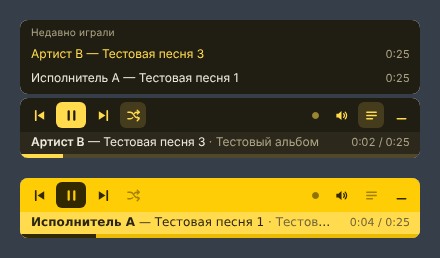
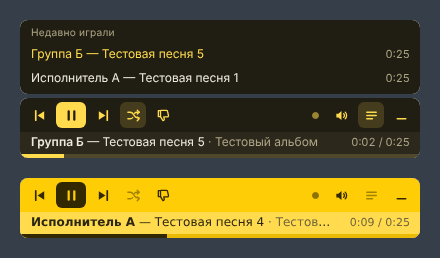
Кнопка «Не нравится» с отменой в течение 5 секунд
Дизлайк пропускает трек, отправляет «Не нравится» в Яндекс, снимает лайк
и удаляет файл. Без сети отправка повторяется при синхронизации.

Claude-Session: https://claude.ai/code/session_01W9G55fLMy6YKxRHAMPyXrY

diff --git a/src/renderer/bar.js b/src/renderer/bar.js
@@ -16,6 +16,8 @@ let status = {};
 let wantPlay = false;       // при старте: играть ли, когда появится первый трек
 let flash = null;           // временная надпись (громкость)
 let flashTimer = null;
+let flashAction = null;     // { label, run } — ссылка в надписи (например «Отменить»)
+let pendingDislike = null;  // { id, timer } — 5 секунд на отмену
 let lastSavedTime = 0;
 
 // ---------- Цвета из одного hex (как в Sticker) ----------
@@ -86,9 +88,12 @@ function shuffled(ids) {
   return a;
 }
 
+// Треки для очереди: всё скачанное, кроме ждущего отправки дизлайка.
+const queueIds = () => tracks.map(t => t.id).filter(id => !pendingDislike || id !== pendingDislike.id);
+
 // Перестроить очередь, сохранив текущий трек на своём месте.
 function rebuildOrder() {
-  const ids = tracks.map(t => t.id);
+  const ids = queueIds();
   if (shuffle) {
     order = shuffled(ids.filter(id => id !== current));
     if (current && byId.has(current)) order.unshift(current);
@@ -106,7 +111,7 @@ function mergeTracks(list) {
   if (!shuffle || order.length === 0) { rebuildOrder(); return; }
   order = order.filter(id => byId.has(id));
   for (const t of list) {
-    if (old.has(t.id)) continue;
+    if (old.has(t.id) || (pendingDislike && pendingDislike.id === t.id)) continue;
     const from = Math.max(pos + 1, 0);
     const at = from + Math.floor(Math.random() * (order.length - from + 1));
     order.splice(at, 0, t.id);
@@ -157,7 +162,7 @@ function step(dir) {
   if (i >= order.length) {
     // Круг пройден: в режиме shuffle перемешиваем заново (без повтора только что сыгранного).
     if (shuffle) {
-      order = shuffled(tracks.map(t => t.id));
+      order = shuffled(queueIds());
       if (order[0] === current && order.length > 1) order.push(order.shift());
     }
     i = 0;
@@ -187,6 +192,13 @@ function renderInfo() {
   const t = current && byId.get(current);
   if (flash) {
     titleEl.textContent = flash;
+    if (flashAction) {
+      const a = document.createElement('span');
+      a.className = 'undo';
+      a.textContent = flashAction.label;
+      a.onclick = (e) => { e.stopPropagation(); const run = flashAction.run; clearFlash(); run(); };
+      titleEl.append(a);
+    }
   } else if (t) {
     titleEl.innerHTML = `<b>${esc(t.artists)}</b> — ${esc(t.title)}${t.album ? ` <span class="soft">· ${esc(t.album)}</span>` : ''}`;
     titleEl.title = `${t.artists} — ${t.title}${t.album ? `\nАльбом: ${t.album}` : ''}`;
@@ -282,12 +294,54 @@ function renderVolume() {
   document.body.classList.toggle('vol-low', audio.volume < 0.5);
   $('volume').title = `Громкость ${audio.muted ? 'выкл.' : Math.round(audio.volume * 100) + '%'} — колесо мыши, клик — без звука`;
 }
-function showFlash(text) {
+function showFlash(text, action = null, ms = 1200) {
   flash = text;
+  flashAction = action;
   renderInfo();
   clearTimeout(flashTimer);
-  flashTimer = setTimeout(() => { flash = null; renderInfo(); }, 1200);
+  flashTimer = setTimeout(clearFlash, ms);
 }
+function clearFlash() {
+  clearTimeout(flashTimer);
+  flash = null;
+  flashAction = null;
+  renderInfo();
+}
+
+// ---------- Дизлайк ----------
+// Трек сразу пропускается; в Яндекс уходит через 5 секунд, если не нажали «Отменить».
+function dislike() {
+  if (!current) return;
+  commitDislike();
+  const id = current;
+  const time = audio.currentTime;
+  step(1);
+  order = order.filter(x => x !== id);
+  pos = current ? order.indexOf(current) : -1;
+  pendingDislike = { id, time, timer: setTimeout(commitDislike, 5000) };
+  showFlash(`Убрано из «Мне нравится»`, { label: "Отменить", run: undoDislike }, 5000);
+}
+function commitDislike() {
+  if (!pendingDislike) return;
+  clearTimeout(pendingDislike.timer);
+  const { id } = pendingDislike;
+  pendingDislike = null;
+  history = history.filter(x => x !== id);
+  window.api.save({ history });
+  window.api.dislike(id);
+}
+function undoDislike() {
+  if (!pendingDislike) return;
+  clearTimeout(pendingDislike.timer);
+  const { id, time } = pendingDislike;
+  pendingDislike = null;
+  if (!byId.has(id)) return;
+  // Возвращаемся к треку с того же места, следующим пойдёт тот, что начался после дизлайка.
+  if (!order.includes(id)) order.splice(Math.max(pos, 0), 0, id);
+  load(id, { time });
+  showFlash('Вернул');
+}
+window.addEventListener('beforeunload', commitDislike);
 
 $('volume').addEventListener('wheel', (e) => {
   e.preventDefault();
@@ -303,6 +357,7 @@ $('volume').addEventListener('click', () => {
 $('play').addEventListener('click', togglePlay);
 $('next').addEventListener('click', () => step(1));
 $('prev').addEventListener('click', () => step(-1));
+$('dislike').addEventListener('click', dislike);
 $('shuffle').addEventListener('click', () => { setShuffle(!shuffle); showFlash(shuffle ? 'Перемешивание включено' : 'Подряд, как в «Мне нравится»'); });
 $('list').addEventListener('click', () => setHistoryOpen($('history').hidden));
 $('hide').addEventListener('click', () => window.api.hide());

diff --git a/test/shot.js b/test/shot.js
@@ -80,6 +80,27 @@ module.exports = async ({ bar, openConfig, library, getConfigWin, app }) => {
   await library.sync();
   check('новые лайки докачались', fs.readdirSync(library.musicDir()).filter(f => f.endsWith('.mp3')).length === 5);
 
+  // Дизлайк с отменой: трек не уходит в Яндекс.
+  const d0 = (await state()).title;
+  await js(`document.getElementById('dislike').click()`);
+  await wait(300);
+  const d1 = await state();
+  check('дизлайк: пропуск и «Отменить»', d1.title.startsWith('Убрано') && d1.title.includes('Отменить'), d1.title);
+  await shot('8-dislike');
+  await js(`document.querySelector('#title .undo').click()`);
+  await wait(5500);
+  check('отмена вернула трек', (await state()).title.startsWith(d0.split(' · ')[0]), (await state()).title);
+  let st = await (await fetch(`${api}/__state`)).json();
+  check('отмена дизлайка ничего не отправила', st.disliked.length === 0 && st.liked.length === 5, JSON.stringify(st));
+  // Дизлайк всерьёз.
+  const victim = (await js(`[...document.querySelectorAll('#title b')].length`)) && d0;
+  await js(`document.getElementById('dislike').click()`);
+  await wait(6000);
+  st = await (await fetch(`${api}/__state`)).json();
+  const mp3s = fs.readdirSync(library.musicDir()).filter(f => f.endsWith('.mp3'));
+  check('дизлайк ушёл в Яндекс и снят лайк', st.disliked.length === 1 && st.liked.length === 4, JSON.stringify(st) + ' ' + victim);
+  check('файл дизлайкнутого удалён', mp3s.length === 4, mp3s.join(' | '));
+
   await js(`document.getElementById('shuffle').click()`);
   await wait(200);
   check('shuffle выключается', (await js(`document.getElementById('shuffle').getAttribute('aria-pressed')`)) === 'false');

diff --git a/src/library.js b/src/library.js
@@ -29,7 +29,7 @@ class Library {
     this.onAuthError = onAuthError;
     this.log = log || (() => {});
     const d = readJson(this.file, {});
-    this.data = { uid: d.uid || null, revision: d.revision || 0, order: d.order || [], tracks: d.tracks || {}, trash: d.trash || [] };
+    this.data = { uid: d.uid || null, revision: d.revision || 0, order: d.order || [], tracks: d.tracks || {}, trash: d.trash || [], dislikes: d.dislikes || [] };
     this.status = { state: 'idle', total: 0, ready: 0, queue: 0, at: null, error: null, login: null };
     this.running = false;
     this.again = false;
@@ -114,6 +114,7 @@ class Library {
       this.data.uid = api.uid;
 
       this.emptyTrash();
+      await this.sendDislikes(api);
       const liked = await api.likedTracks();
       const ids = liked.tracks.map(t => t.id);
       const keep = new Set(ids);
@@ -164,6 +165,26 @@ class Library {
       } else {
         this.setStatus({ state: 'error', error: e.message || String(e), at: this.status.at });
       }
+    }
+  }
+
+  // Дизлайк из плеера: убираем трек сразу, в Яндекс отправляем при синхронизации
+  // (если сети нет — повторим позже, до этого трек не вернётся из «Мне нравится»).
+  dislike(id) {
+    this.data.dislikes = [...new Set([...(this.data.dislikes || []), id])];
+    this.removeTrack(id);
+    this.data.order = this.data.order.filter(x => x !== id);
+    this.save();
+    this.onChange(this.playable());
+    this.sync();
+  }
+
+  async sendDislikes(api) {
+    for (const id of [...(this.data.dislikes || [])]) {
+      await api.dislike(id);
+      this.log('disliked', id);
+      this.data.dislikes = this.data.dislikes.filter(x => x !== id);
+      this.save();
     }
   }
 

diff --git a/test/server.js b/test/server.js
@@ -16,6 +16,7 @@ const catalog = files.map((f, i) => ({
 }));
 let liked = catalog.slice(0, Number(process.env.LIKED || catalog.length)).map(t => t.id);
 let revision = 1;
+const disliked = [];
 
 const json = (res, code, obj) => { res.writeHead(code, { 'Content-Type': 'application/json' }); res.end(JSON.stringify(obj)); };
 
@@ -31,6 +32,7 @@ http.createServer((req, res) => {
     // Управление тестом: какие треки «лайкнуты».
     if (u.pathname === '/__liked') { liked = u.searchParams.get('ids').split(',').filter(Boolean); revision++; return json(res, 200, { liked }); }
 
+    if (u.pathname === '/__state') return json(res, 200, { liked, disliked });
     const m3 = u.pathname.match(/^\/get-mp3\/([0-9a-f]{32})\/(\d+)(\/x\/(\d+)\.mp3)$/);
     if (m3) {
       const t = catalog.find(c => c.id === m3[4]);
@@ -52,6 +54,11 @@ http.createServer((req, res) => {
       return json(res, 200, { result: { library: { uid: 42, revision, tracks: liked.map(id => {
         const t = catalog.find(c => c.id === id); return { id: t.id, albumId: t.albumId, timestamp: new Date().toISOString() };
       }) } } });
+    }
+    if (u.pathname === '/users/42/dislikes/tracks/add-multiple') { disliked.push(...new URLSearchParams(body).getAll('track-ids')); return json(res, 200, { result: { revision: ++revision } }); }
+    if (u.pathname === '/users/42/likes/tracks/remove') {
+      const rm = new URLSearchParams(body).getAll('track-ids').map(x => x.split(':')[0]);
+      liked = liked.filter(id => !rm.includes(id)); return json(res, 200, { result: { revision: ++revision } });
     }
     if (u.pathname === '/tracks' && req.method === 'POST') {
       const ids = new URLSearchParams(body).getAll('track-ids');

diff --git a/src/renderer/bar.html b/src/renderer/bar.html
@@ -29,6 +29,10 @@
           <svg viewBox="0 0 16 16" fill="none" stroke="currentColor" stroke-width="1.5" stroke-linecap="round" stroke-linejoin="round"><path d="M2 4.5h2.5c1.6 0 2.6.8 3.5 2.2l1 1.6c.9 1.4 1.9 2.2 3.5 2.2H14"/><path d="M2 11.5h2.5c1.2 0 2-.4 2.7-1.2M9 5.7c.7-.8 1.5-1.2 2.5-1.2H14"/><path d="M12 2.5l2 2-2 2M12 9.5l2 2-2 2"/></svg>
         </button>
 
+        <button class="btn" id="dislike" title="Не нравится — убрать из «Мне нравится» и пропустить" aria-label="Не нравится">
+          <svg viewBox="0 0 16 16" fill="none" stroke="currentColor" stroke-width="1.4" stroke-linejoin="round"><path d="M2.5 2.8h2.3v6.4H2.5z"/><path d="M4.8 9.2l2.6 4.3c.9 0 1.6-.8 1.4-1.7l-.5-2.3h3.8c.8 0 1.4-.7 1.2-1.5l-1-4.4c-.1-.6-.7-1-1.3-1H4.8"/></svg>
+        </button>
+
         <div class="spacer"></div>
 
         <span class="dot" id="dot"></span>

diff --git a/src/yandex.js b/src/yandex.js
@@ -88,6 +88,12 @@ class YandexMusic {
     return { revision: lib.revision || 0, tracks: list };
   }
 
+  // Дизлайк: трек уходит в «Не нравится» и снимается с «Мне нравится».
+  async dislike(trackId) {
+    await this.request('POST', `/users/${this.uid}/dislikes/tracks/add-multiple`, { form: { 'track-ids': [trackId] } });
+    await this.request('POST', `/users/${this.uid}/likes/tracks/remove`, { form: { 'track-ids': [trackId] } });
+  }
+
   // Полные данные треков пачками по 100.
   async tracks(ids) {
     const out = [];

diff --git a/src/main.js b/src/main.js
@@ -336,6 +336,7 @@ ipcMain.on('player:save', (_e, patch) => {
 // Новый трек начался — удобный момент поставить обновление.
 ipcMain.on('player:started', () => { if (updateReady) installUpdate(true); });
 ipcMain.on('player:broken', (_e, id) => library.broken(id));
+ipcMain.on('player:dislike', (_e, id) => library.dislike(id));
 
 // Высота меняется, когда раскрывается список; нижний край остаётся на месте.
 ipcMain.on('resize', (_e, height) => {

diff --git a/src/preload.js b/src/preload.js
@@ -5,6 +5,7 @@ contextBridge.exposeInMainWorld('api', {
   save: (patch) => ipcRenderer.send('player:save', patch),
   started: (id) => ipcRenderer.send('player:started', id),
   broken: (id) => ipcRenderer.send('player:broken', id),
+  dislike: (id) => ipcRenderer.send('player:dislike', id),
   resize: (h) => ipcRenderer.send('resize', h),
   hide: () => ipcRenderer.send('hide'),
   login: () => ipcRenderer.send('login'),

diff --git a/src/renderer/bar.css b/src/renderer/bar.css
@@ -113,6 +113,7 @@ body.vol-low .i-vol .w2 { display: none; }
 .title b { font-weight: 600; }
 .title .soft { color: var(--ink-soft); }
 .title.link { color: var(--edge); text-decoration: underline; cursor: pointer; }
+.title .undo { color: var(--edge); text-decoration: underline; cursor: pointer; margin-left: 6px; }
 .time {
   flex: 0 0 auto;
   font-variant-numeric: tabular-nums;

diff --git a/README.md b/README.md
@@ -11,7 +11,8 @@
 - **Офлайн-синхронизация «Мне нравится».** Треки скачиваются в MP3 (лучшее доступное качество, обычно 320 kbps) и играют с диска. Пока часть ещё качается, остальное уже играет.
 - **Фоновая докачка.** Поставили лайк в браузере или на телефоне — трек сам появится в плеере через несколько минут. Сняли лайк — файл удалится с диска.
 - **Минимальный интерфейс.** Полоска шириной 400 px поверх всех окон, по центру над панелью задач. В покое полупрозрачная, при наведении становится непрозрачной.
-- **Кнопки:** ⏮ предыдущий, ⏯ играть/пауза, ⏭ следующий, 🔀 перемешать (shuffle).
+- **Кнопки:** ⏮ предыдущий, ⏯ играть/пауза, ⏭ следующий, 🔀 перемешать (shuffle), 👎 не нравится.
+- **Дизлайк** пропускает трек, ставит ему «Не нравится» в Яндексе и снимает с «Мне нравится», файл удаляется. 5 секунд можно нажать «Отменить» — трек вернётся с того же места. Без сети дизлайк отправится при следующей синхронизации.
 - **Строка трека** под кнопками: исполнитель, название, альбом, время и прогресс. Клик по прогрессу — перемотка.
 - **Громкость колесом мыши** при наведении на значок динамика; клик по значку выключает звук.
 - **«Недавно играли»** — последние 10 сыгранных треков, клик по любому запускает его.
